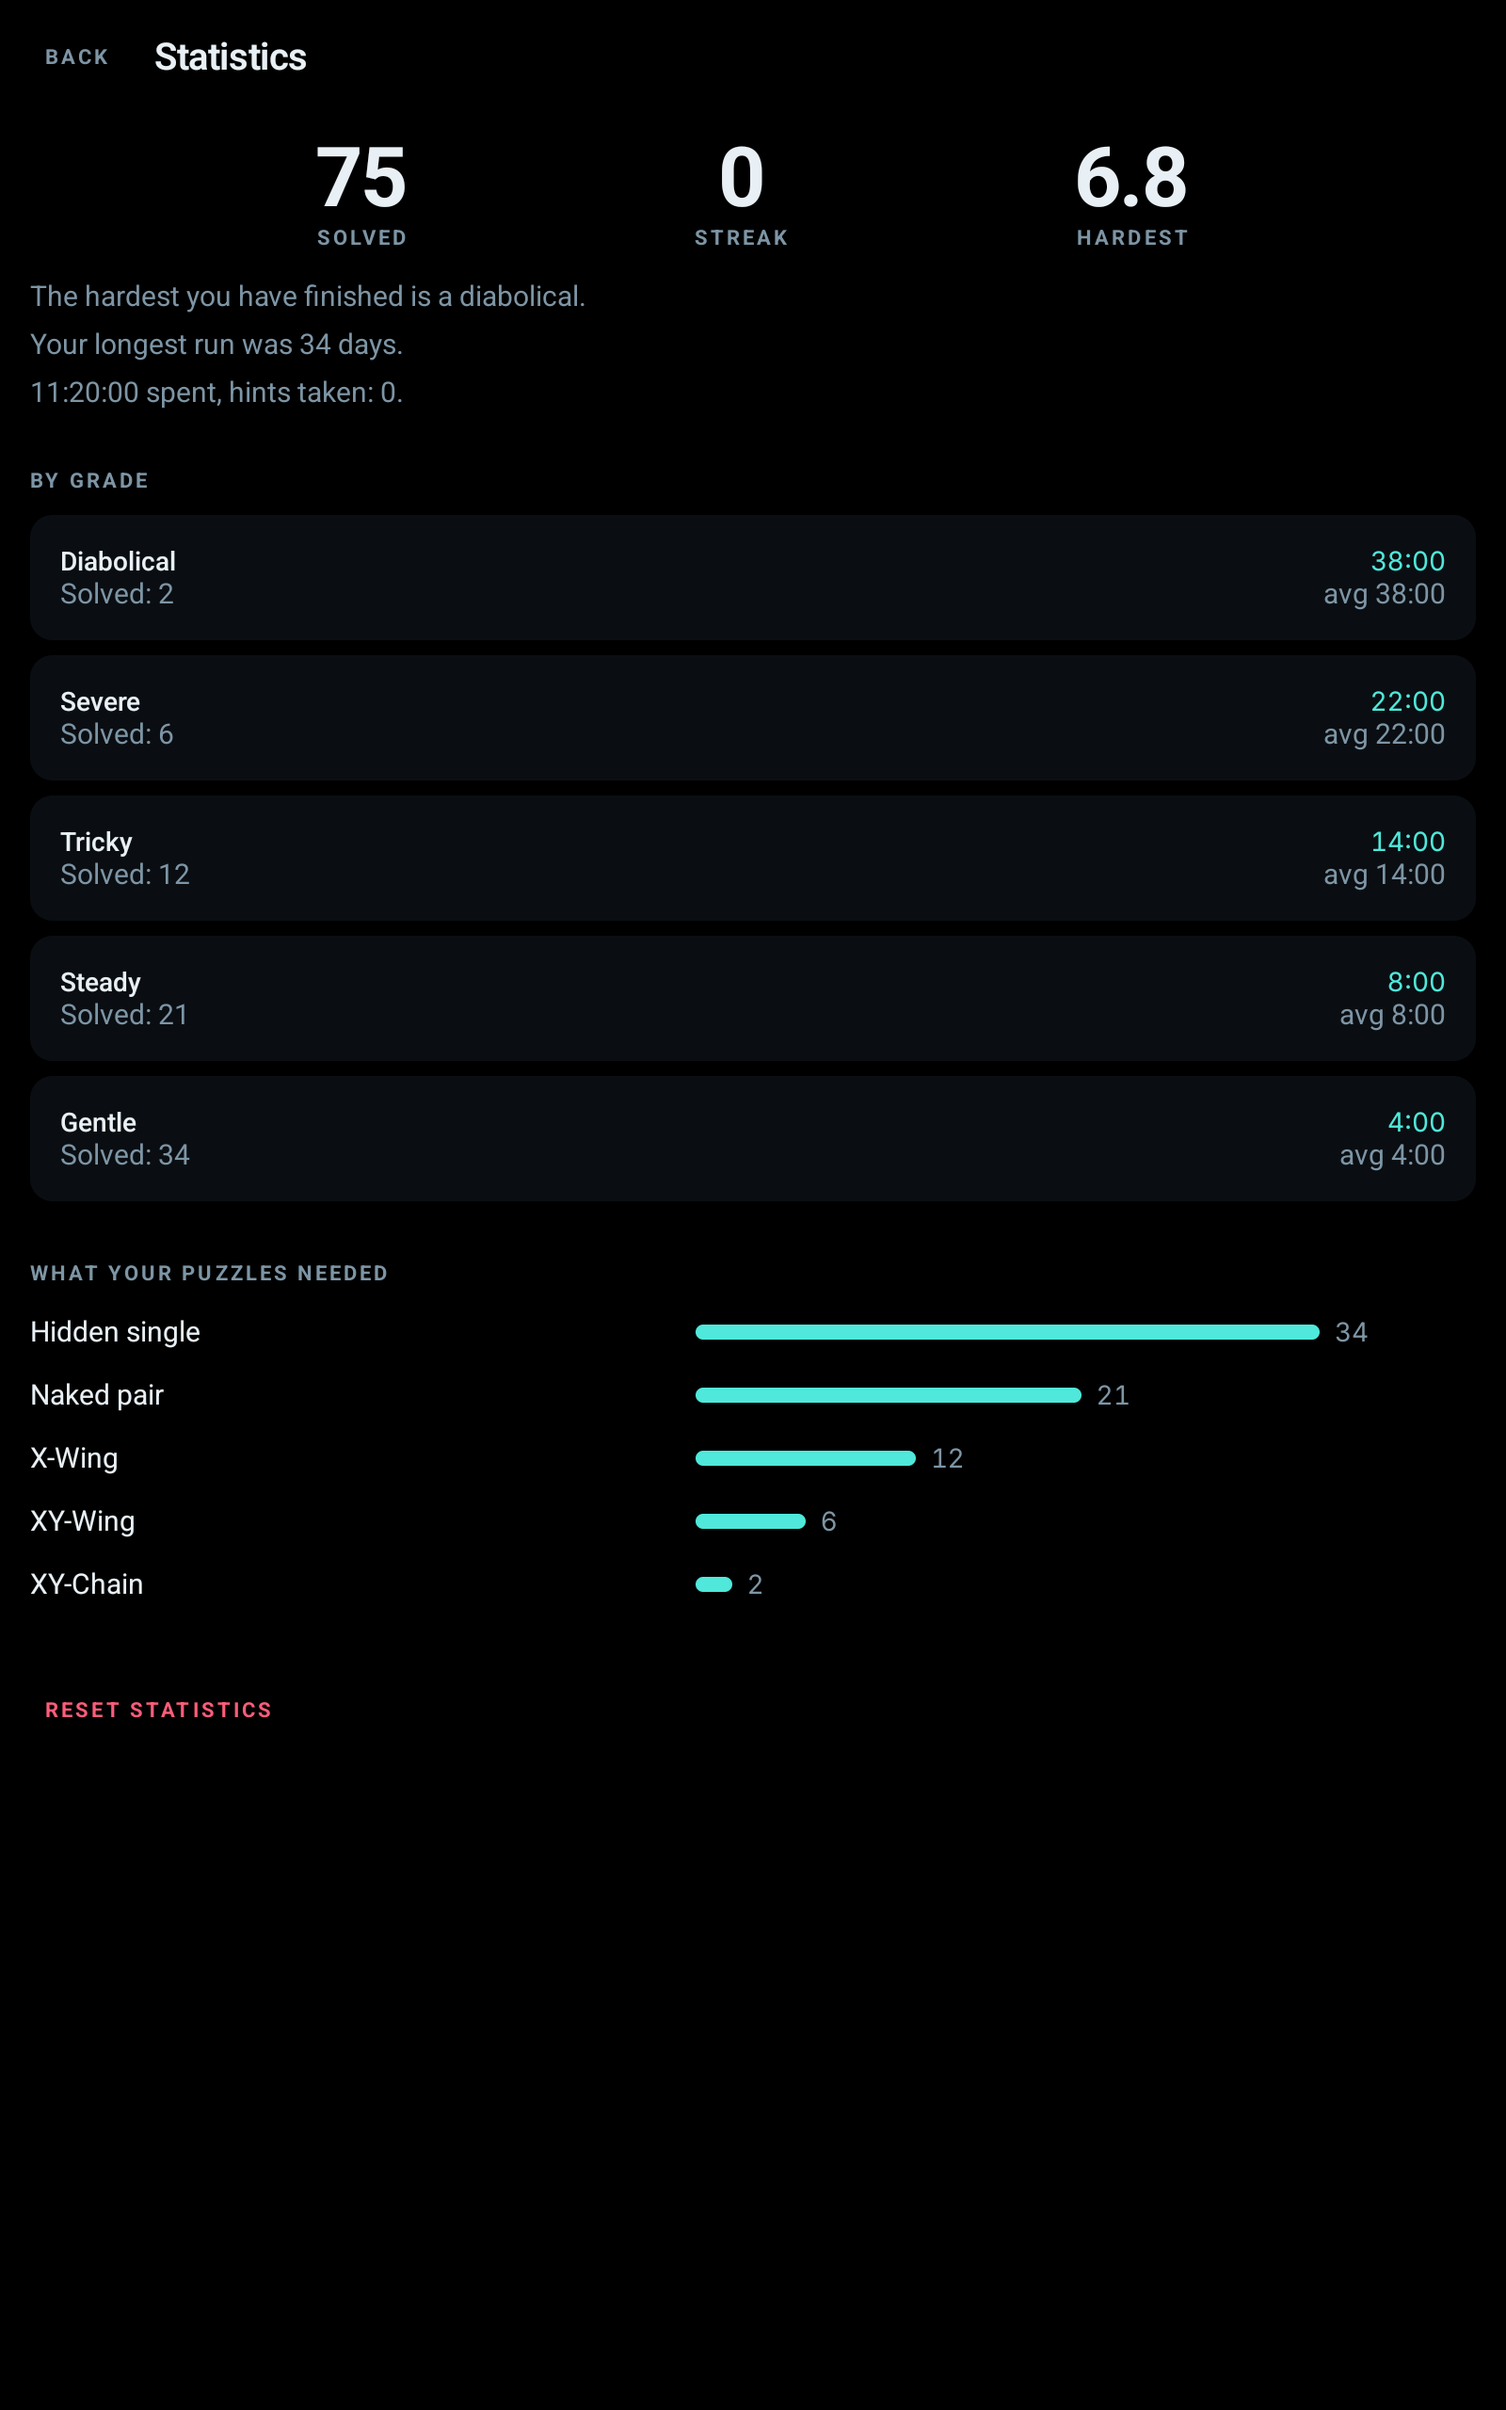
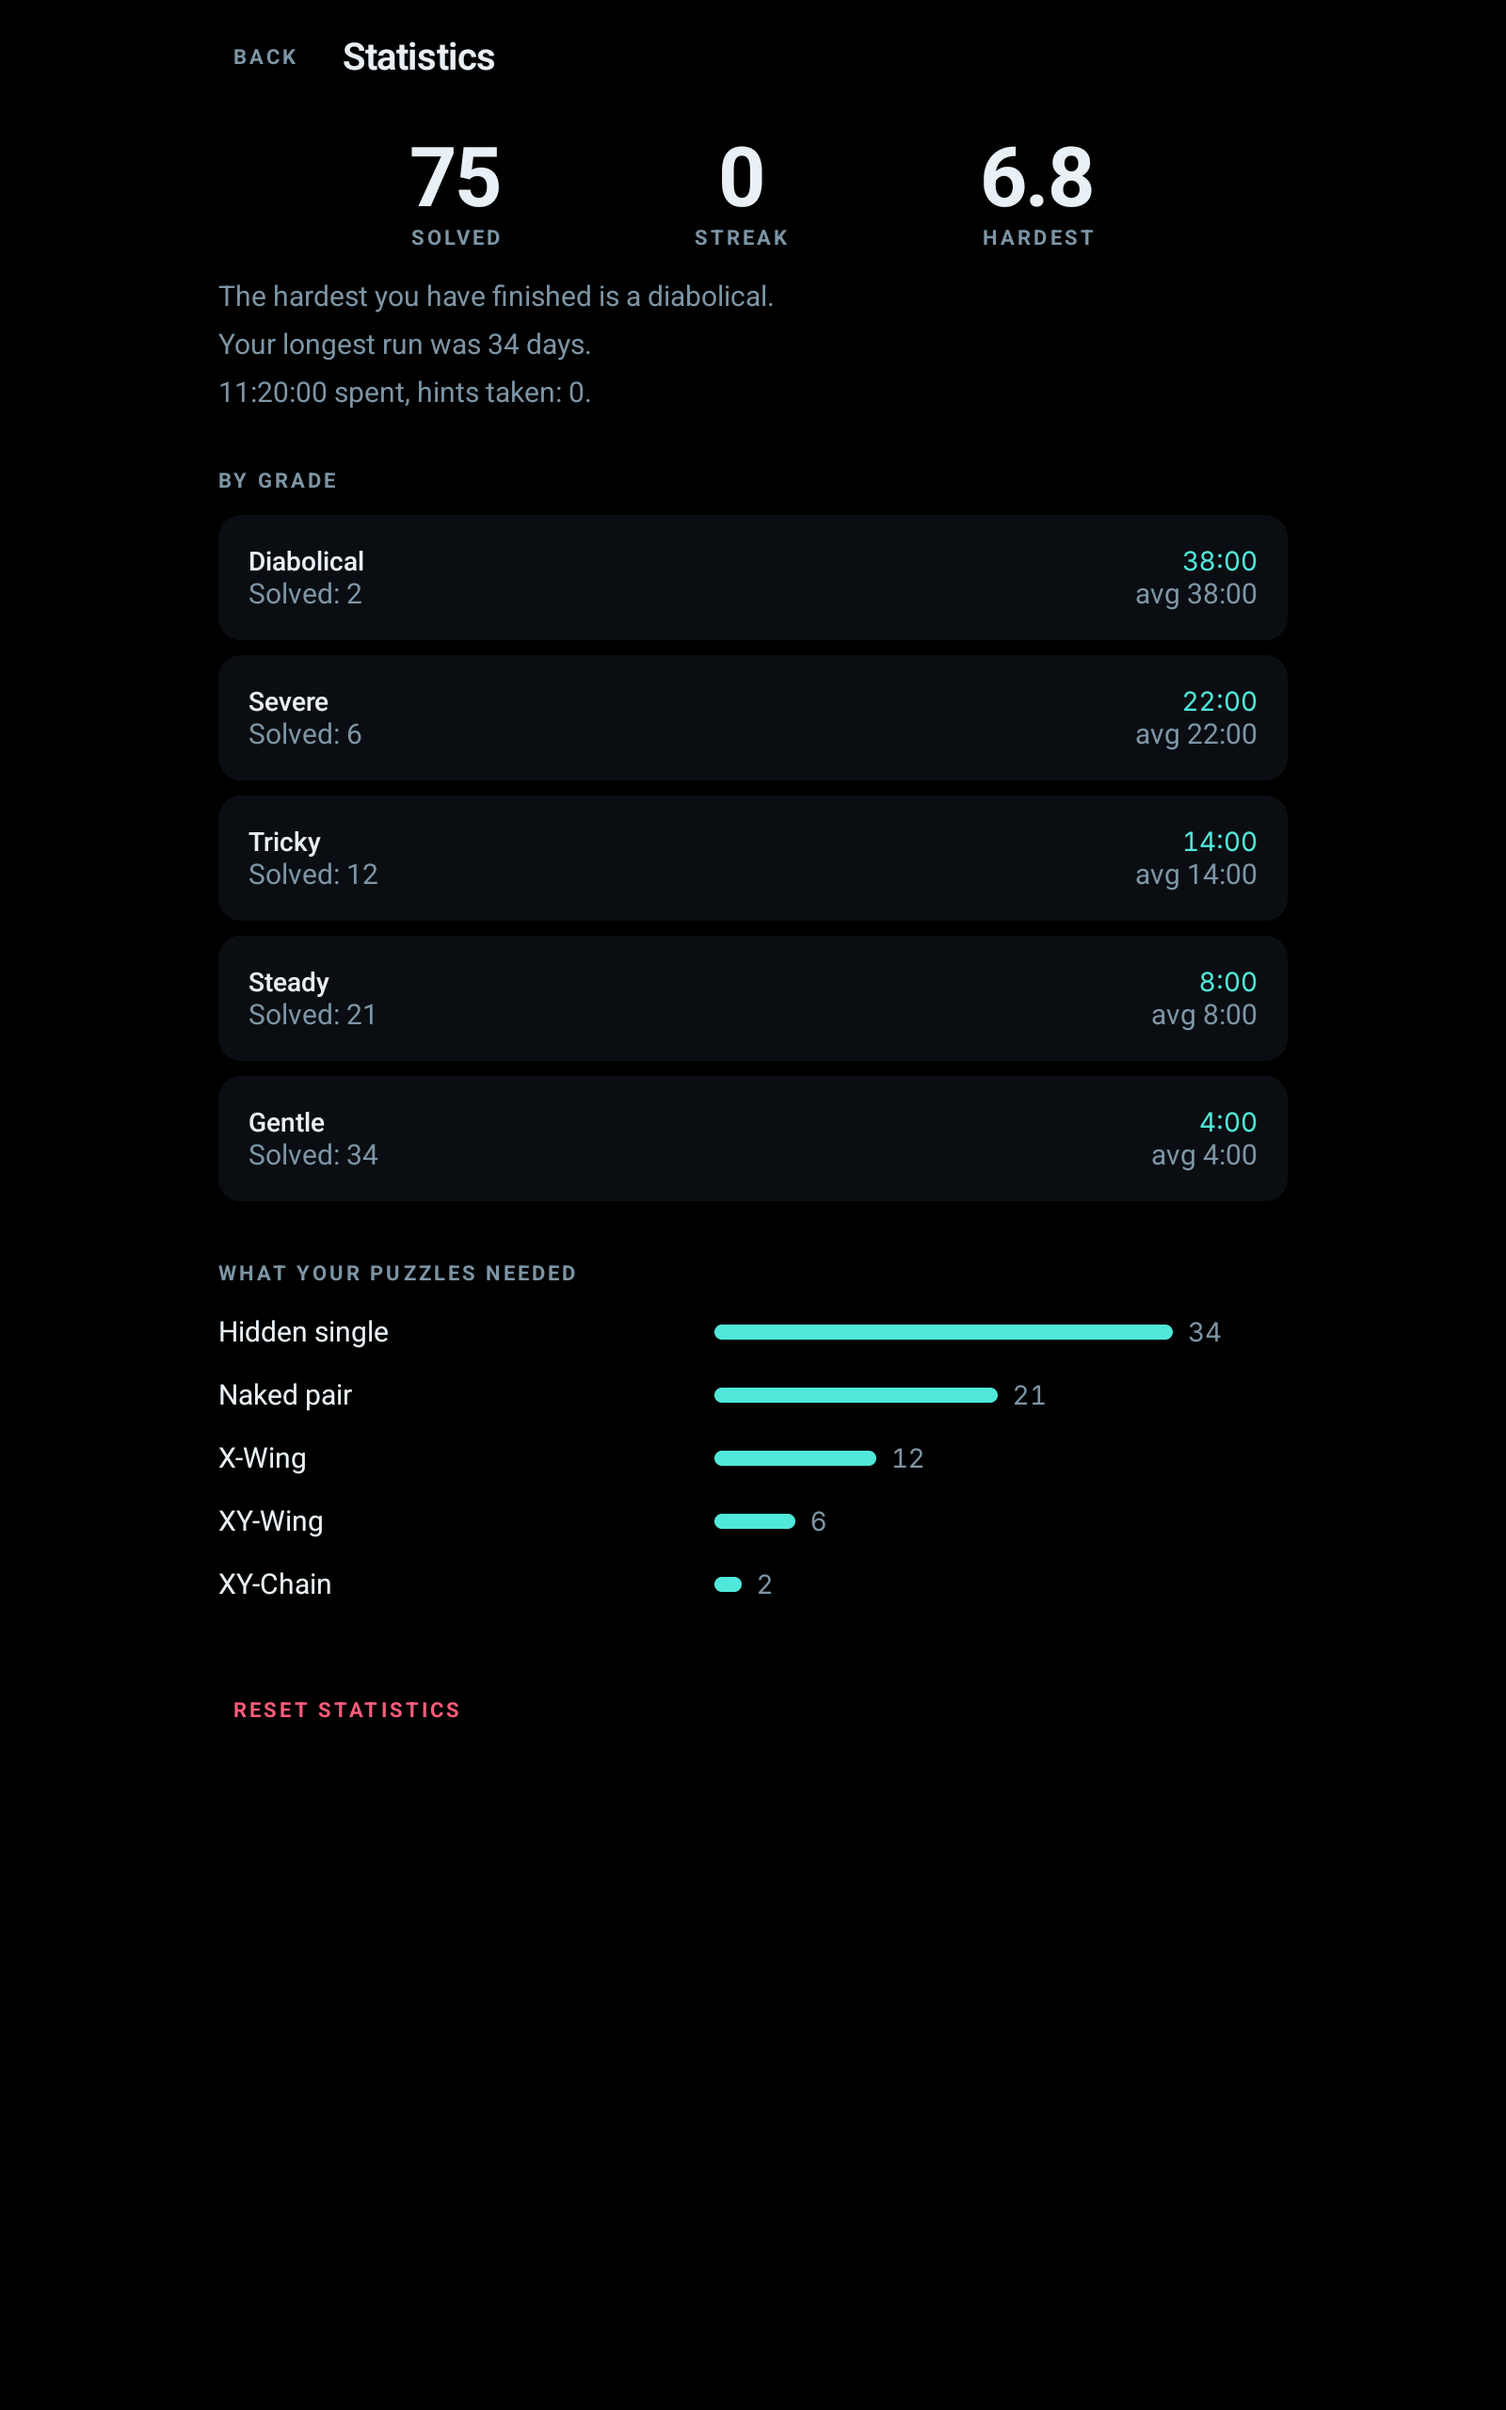
capture the store screenshots at three sizes

diff --git a/app/src/androidTest/kotlin/com/sendoku/app/ui/StoreShotsTest.kt b/app/src/androidTest/kotlin/com/sendoku/app/ui/StoreShotsTest.kt
@@ -1,8 +1,6 @@
 package com.sendoku.app.ui
 
 import android.graphics.Bitmap
-import androidx.compose.foundation.layout.Box
-import androidx.compose.foundation.layout.fillMaxSize
 import androidx.compose.runtime.Composable
 import androidx.compose.ui.Modifier
 import androidx.compose.ui.graphics.asAndroidBitmap
@@ -69,10 +67,11 @@ class StoreShotsTest {
         }
     }
 
+    /** The same frame the app puts around a screen, so a tablet shot is framed like a tablet. */
     @Composable
-    private fun Scene(dark: Boolean = true, content: @Composable () -> Unit) {
+    private fun Scene(dark: Boolean = true, content: @Composable (Modifier) -> Unit) {
         SendokuTheme(themeId = SendokuThemeId.DEEP_FIELD, dark = dark) {
-            Box(Modifier.fillMaxSize()) { content() }
+            ReadableWidth { pane -> content(pane) }
         }
     }
 
@@ -107,7 +106,7 @@ class StoreShotsTest {
     @Test
     fun home() {
         compose.setContent {
-            Scene {
+            Scene { pane ->
                 HomeScreen(
                     state = HomeState(
                         solvedByGrade = mapOf(
@@ -129,26 +128,28 @@ class StoreShotsTest {
                     onDaily = {},
                     onSettings = {},
                     onStats = {},
+                    modifier = pane,
                 )
             }
         }
-        shot("1-home")
+        shot("2-home")
     }
 
     @Test
     fun beyond() {
         compose.setContent {
-            Scene {
+            Scene { pane ->
                 GameScreen(
                     state = midGame(Grade.BEYOND, seed = 91, placed = 14),
                     onEvent = {},
                     onNextPuzzle = {},
                     onHome = {},
                     onGlossary = {},
+                    modifier = pane,
                 )
             }
         }
-        shot("2-beyond")
+        shot("3-beyond")
     }
 
     /**
@@ -161,11 +162,13 @@ class StoreShotsTest {
      */
     private fun untilHard(grade: Grade, seed: Int, minimumCost: Double): GameState {
         var state = GameState.start(puzzle(grade, seed))
-        repeat(200) {
+        repeat(400) {
             val hint = HintEngine.next(state)
             if (hint !is Hint.Step) return state
             if (hint.deduction.technique.cost >= minimumCost) return state
+            val before = state
             state = state.applyHint(hint.deduction)
+            if (state == before) return state
         }
         return state
     }
@@ -173,14 +176,15 @@ class StoreShotsTest {
     @Test
     fun hint() {
         compose.setContent {
-            Scene {
+            Scene { pane ->
                 GameScreen(
-                    state = untilHard(Grade.BEYOND, seed = 7, minimumCost = 6.0)
+                    state = untilHard(Grade.BEYOND, seed = 7, minimumCost = 4.2)
                         .tick(14.minutes + 30.seconds),
                     onEvent = {},
                     onNextPuzzle = {},
                     onHome = {},
                     onGlossary = {},
+                    modifier = pane,
                 )
             }
         }
@@ -191,41 +195,44 @@ class StoreShotsTest {
         compose.onNodeWithText("Show me where", ignoreCase = true).performClick()
         compose.waitForIdle()
         compose.onNodeWithText("Explain it", ignoreCase = true).performClick()
-        shot("3-hint")
+        shot("1-hint")
     }
 
     @Test
     fun light() {
         compose.setContent {
-            Scene(dark = false) {
+            Scene(dark = false) { pane ->
                 GameScreen(
                     state = midGame(Grade.TRICKY, seed = 4, placed = 30),
                     onEvent = {},
                     onNextPuzzle = {},
                     onHome = {},
                     onGlossary = {},
+                    modifier = pane,
                 )
             }
         }
-        shot("4-light")
+        shot("5-light")
     }
 
     @Test
     fun glossary() {
-        compose.setContent { Scene { GlossaryScreen(onBack = {}) } }
-        shot("5-glossary")
+        compose.setContent { Scene { pane -> GlossaryScreen(onBack = {}, modifier = pane) } }
+        shot("4-glossary")
     }
 
     @Test
     fun stats() {
-        compose.setContent { Scene { StatsScreen(statistics = history(), onBack = {}, onReset = {}) } }
+        compose.setContent {
+            Scene { pane -> StatsScreen(statistics = history(), onBack = {}, onReset = {}, modifier = pane) }
+        }
         shot("6-stats")
     }
 
     @Test
     fun settings() {
         compose.setContent {
-            Scene {
+            Scene { pane ->
                 SettingsScreen(
                     settings = GameSettings(),
                     appearance = Appearance(theme = SendokuThemeId.DEEP_FIELD, mode = ThemeMode.DARK),
@@ -233,6 +240,7 @@ class StoreShotsTest {
                     onAppearanceChange = {},
                     onBack = {},
                     onAbout = {},
+                    modifier = pane,
                 )
             }
         }
@@ -247,13 +255,14 @@ class StoreShotsTest {
         }
         val finished = state.tick(27.minutes + 41.seconds)
         compose.setContent {
-            Scene {
+            Scene { pane ->
                 GameScreen(
                     state = finished,
                     onEvent = {},
                     onNextPuzzle = {},
                     onHome = {},
                     onGlossary = {},
+                    modifier = pane,
                 )
             }
         }

diff --git a/app/src/main/kotlin/com/sendoku/app/SendokuApp.kt b/app/src/main/kotlin/com/sendoku/app/SendokuApp.kt
@@ -3,9 +3,7 @@ package com.sendoku.app
 import androidx.activity.compose.BackHandler
 import androidx.compose.foundation.background
 import androidx.compose.foundation.layout.Box
-import androidx.compose.foundation.layout.BoxWithConstraints
 import androidx.compose.foundation.layout.fillMaxSize
-import androidx.compose.foundation.layout.widthIn
 import androidx.compose.material3.Text
 import androidx.compose.runtime.Composable
 import androidx.compose.runtime.collectAsState
@@ -29,6 +27,7 @@ import com.sendoku.app.ui.HomeScreen
 import com.sendoku.app.ui.HomeState
 import com.sendoku.app.ui.InProgressSummary
 import com.sendoku.app.ui.LicencesScreen
+import com.sendoku.app.ui.ReadableWidth
 import com.sendoku.app.ui.SettingsScreen
 import com.sendoku.app.ui.StatsScreen
 import com.sendoku.engine.Grade
@@ -87,25 +86,6 @@ public fun SendokuApp(
             version = version,
             modifier = pane,
         )
-    }
-}
-
-/**
- * Gives a screen wider than a phone some margin instead of stretching everything across it.
- *
- * A sudoku board twice the size is not twice as good, and a number pad a foot wide is worse
- * than one under a thumb. The background still paints the whole window, so the margin reads
- * as part of the app rather than as a letterbox.
- */
-@Composable
-private fun ReadableWidth(modifier: Modifier, content: @Composable (Modifier) -> Unit) {
-    BoxWithConstraints(
-        modifier = modifier.fillMaxSize().background(Sendoku.colors.background),
-        contentAlignment = Alignment.TopCenter,
-    ) {
-        val dimens = Sendoku.dimens
-        val cap = if (maxWidth > maxHeight) dimens.contentMaxWidthWide else dimens.contentMaxWidth
-        content(Modifier.widthIn(max = cap).fillMaxSize())
     }
 }
 

diff --git a/app/src/main/kotlin/com/sendoku/app/ui/ReadableWidth.kt b/app/src/main/kotlin/com/sendoku/app/ui/ReadableWidth.kt
@@ -1,0 +1,32 @@
+package com.sendoku.app.ui
+
+import androidx.compose.foundation.background
+import androidx.compose.foundation.layout.BoxWithConstraints
+import androidx.compose.foundation.layout.fillMaxSize
+import androidx.compose.foundation.layout.widthIn
+import androidx.compose.runtime.Composable
+import androidx.compose.ui.Alignment
+import androidx.compose.ui.Modifier
+import com.sendoku.app.theme.Sendoku
+
+/**
+ * Gives a screen wider than a phone some margin instead of stretching everything across it.
+ *
+ * A sudoku board twice the size is not twice as good, and a number pad a foot wide is worse
+ * than one under a thumb. The background still paints the whole window, so the margin reads
+ * as part of the app rather than as a letterbox.
+ *
+ * It lives here rather than inside the app shell so the store screenshots, which render the
+ * screens directly, are framed the same way a tablet really frames them.
+ */
+@Composable
+public fun ReadableWidth(modifier: Modifier = Modifier, content: @Composable (Modifier) -> Unit) {
+    BoxWithConstraints(
+        modifier = modifier.fillMaxSize().background(Sendoku.colors.background),
+        contentAlignment = Alignment.TopCenter,
+    ) {
+        val dimens = Sendoku.dimens
+        val cap = if (maxWidth > maxHeight) dimens.contentMaxWidthWide else dimens.contentMaxWidth
+        content(Modifier.widthIn(max = cap).fillMaxSize())
+    }
+}
